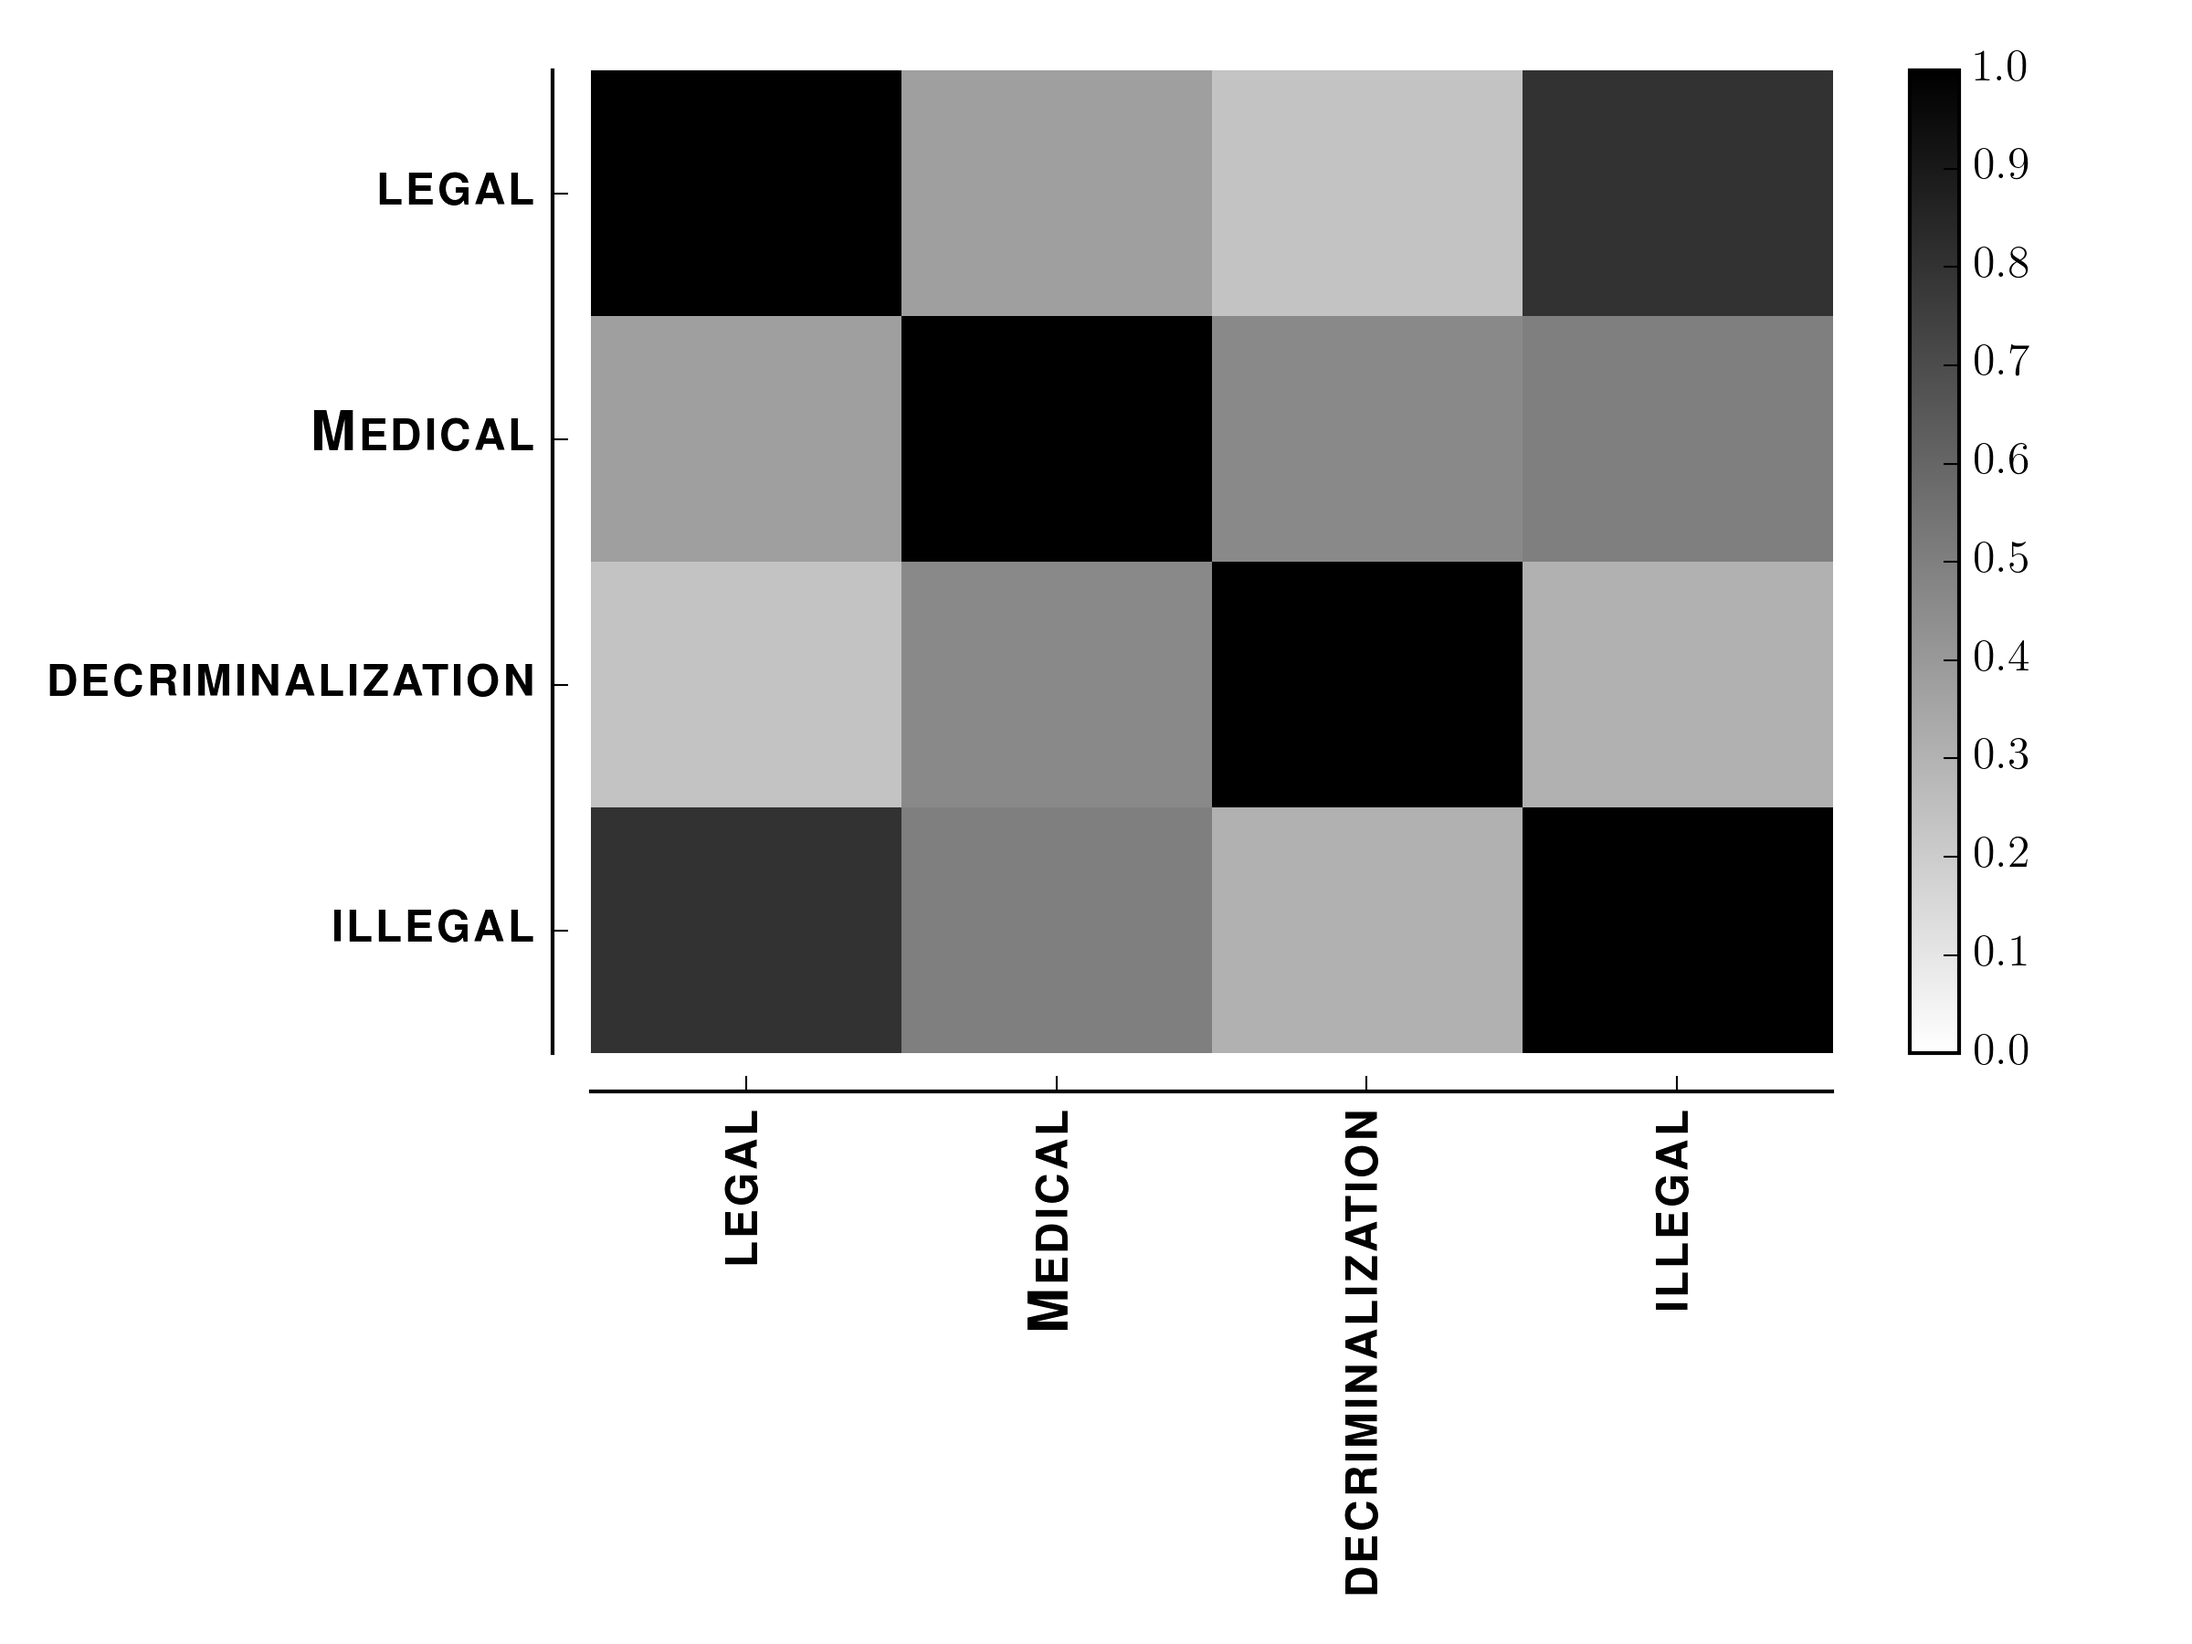
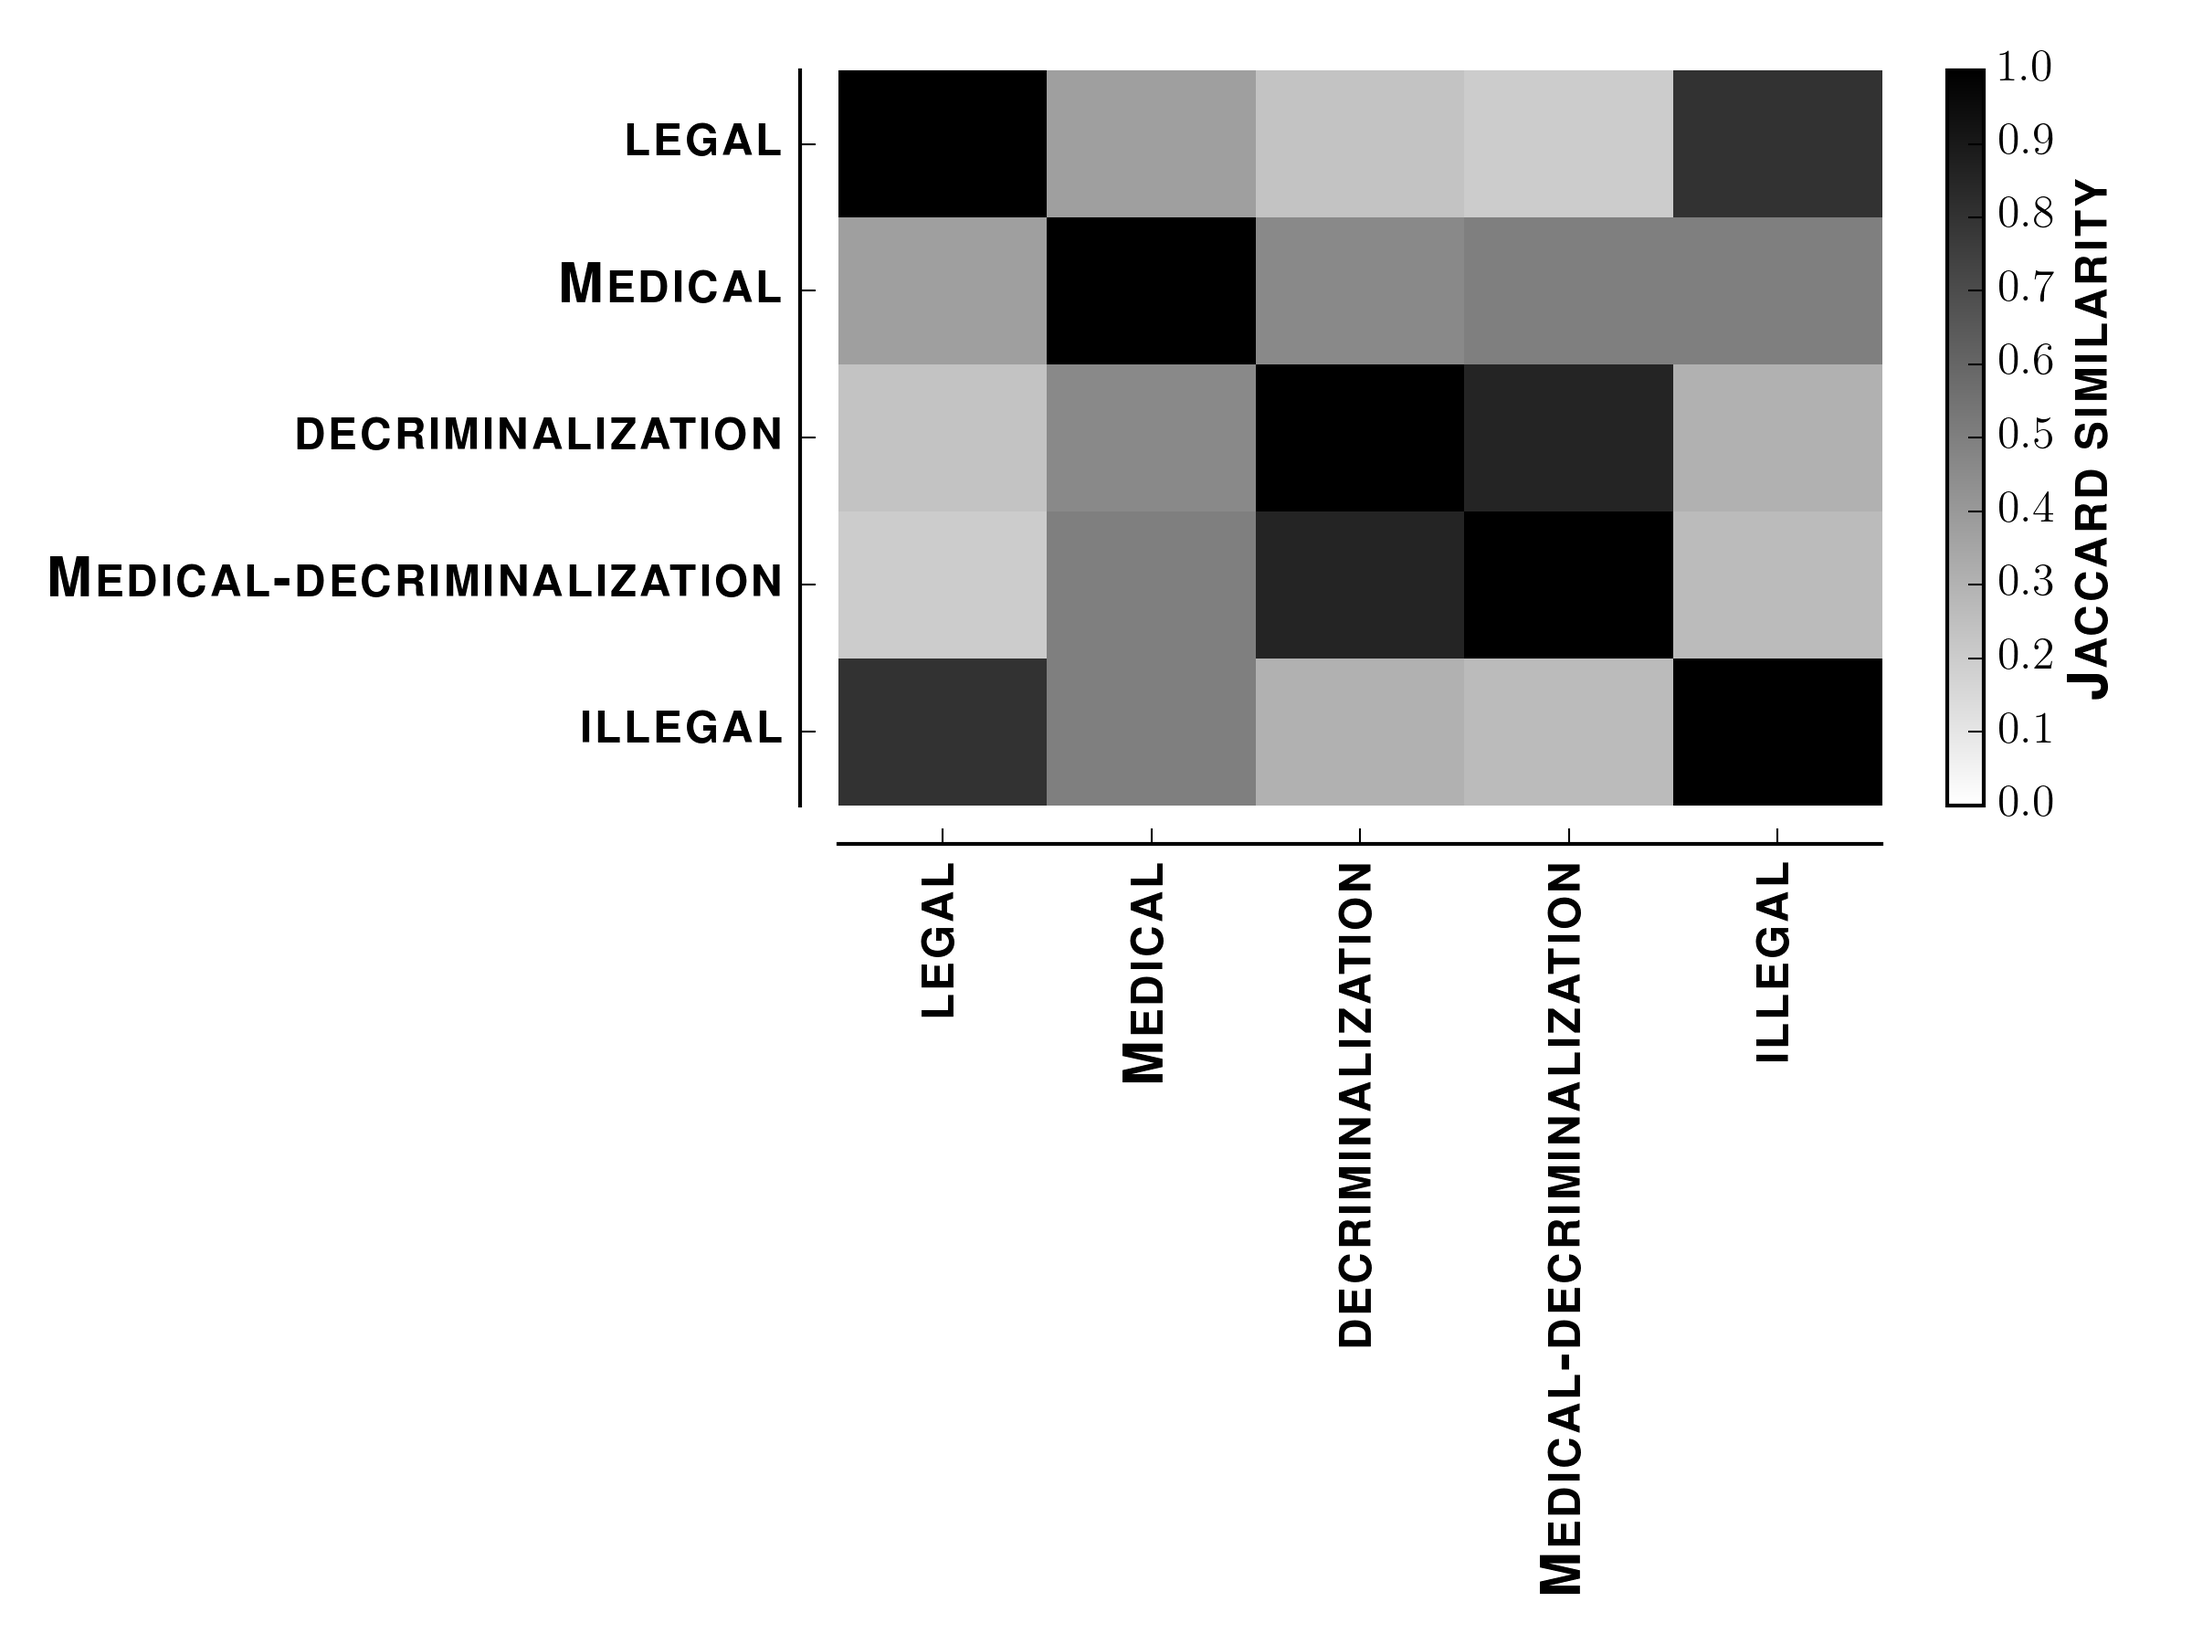
forgot to include one category of states in heatmap

diff --git a/src/legality-vs-states.py b/src/legality-vs-states.py
@@ -15,9 +15,11 @@ data = json.load(open('./data/word-occurences-by-category.json',READ))
 def jaccard(one,two):
 	return len(set(one) & set(two))/float(len(set(one) | set(two)))
 
-categories = ['legal','Medical','decriminalization','illegal']
+categories = ['legal','Medical','decriminalization','Medical-decriminalization','illegal']
 similarities = [[jaccard(first_category,second_category) for first_category in categories] 
 														 for second_category in categories]
+
+np.savetxt('./results/jaccard-similarity-marijuana.tsv',np.array(similarities),fmt ='%.04f', delimiter='\t')
 
 fig = plt.figure()
 ax = fig.add_subplot(111)
@@ -30,5 +32,6 @@ ax.set_xticks(range(len(categories)))
 ax.set_yticklabels(map(artist.format,categories))
 ax.set_xticklabels(map(artist.format,categories), rotation='vertical')
 cbar = plt.colorbar(cax)
+cbar.set_label(artist.format('Jaccard similarity'))
 plt.tight_layout()
 plt.savefig('./results/jaccard-similarity-marijuana.png',dpi=300)
